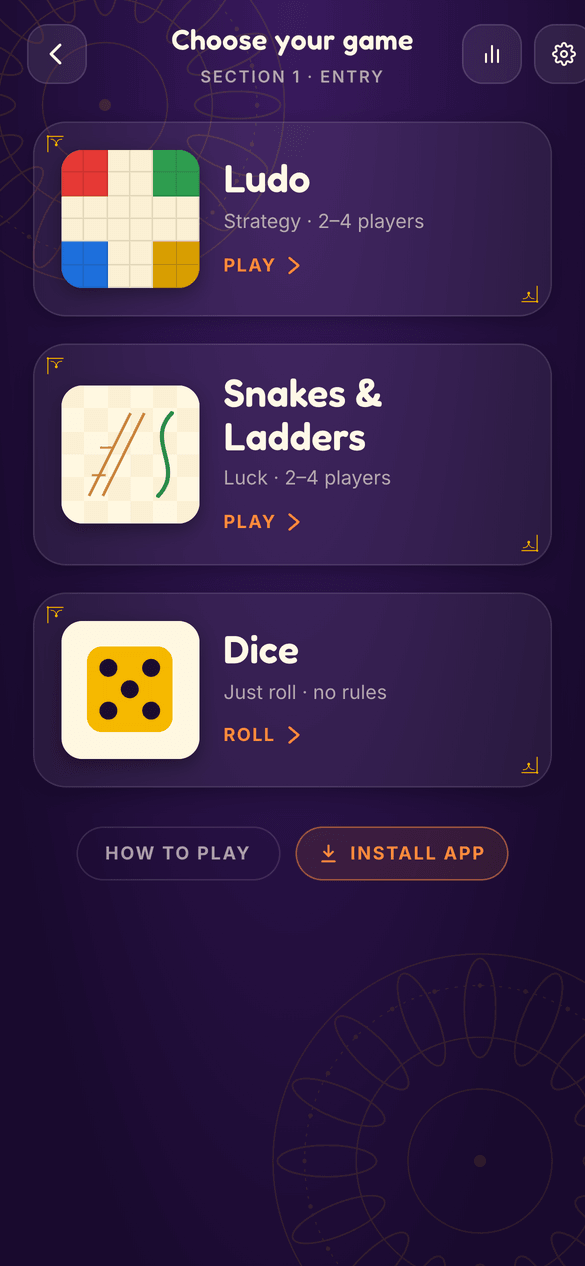
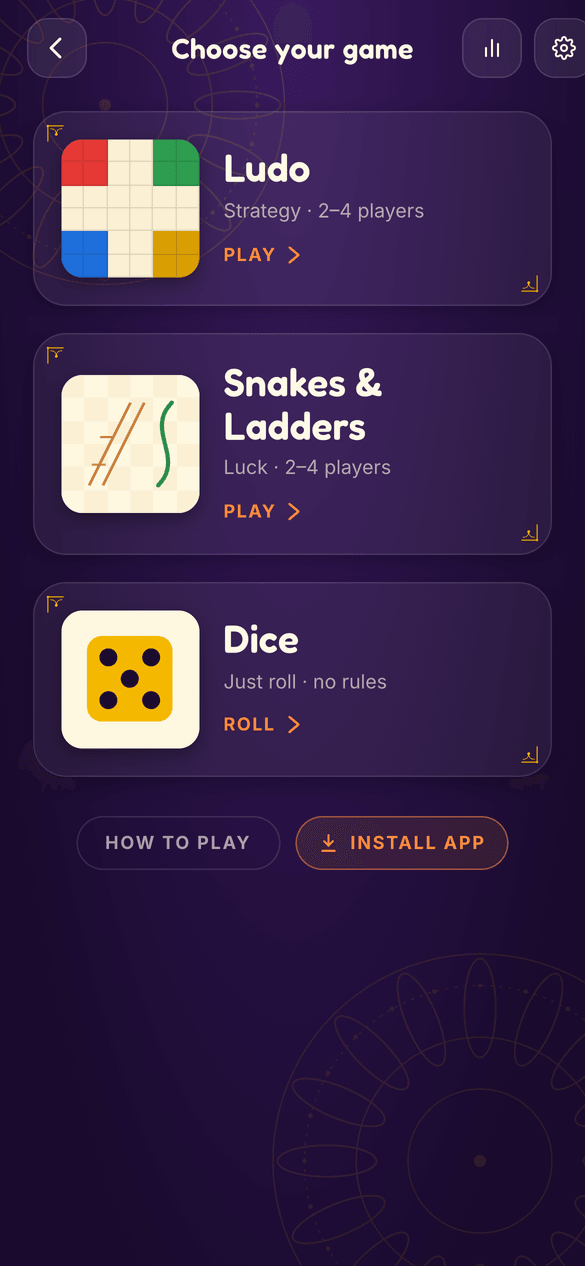
Self-host fonts and drop the leftover 'Section 1 · Entry' label
Fredoka and Inter now ship with the app (@fontsource-variable, Latin +
Latin-ext only, ~167 KB) instead of loading from Google Fonts, so the
app makes no third-party requests and fonts work offline from first
launch. Removes the Google Fonts links and runtime-caching rules.

Also removes the design-mockup subtitle on the game-select header and
refreshes that screenshot.

diff --git a/src/fonts.css b/src/fonts.css
@@ -1,0 +1,41 @@
+/* Self-hosted fonts (no Google Fonts request), so the app makes no
+   third-party calls and fonts work offline from the first launch.
+   Only the Latin + Latin-extended subsets are declared: importing
+   Fontsource's own CSS would ship (and precache) every script subset.
+   Family names match the --font-* tokens in index.css. */
+
+@font-face {
+  font-family: 'Inter';
+  font-style: normal;
+  font-display: swap;
+  font-weight: 100 900;
+  src: url('@fontsource-variable/inter/files/inter-latin-ext-wght-normal.woff2') format('woff2-variations');
+  unicode-range: U+0100-02BA,U+02BD-02C5,U+02C7-02CC,U+02CE-02D7,U+02DD-02FF,U+0304,U+0308,U+0329,U+1D00-1DBF,U+1E00-1E9F,U+1EF2-1EFF,U+2020,U+20A0-20AB,U+20AD-20C0,U+2113,U+2C60-2C7F,U+A720-A7FF;
+}
+
+@font-face {
+  font-family: 'Inter';
+  font-style: normal;
+  font-display: swap;
+  font-weight: 100 900;
+  src: url('@fontsource-variable/inter/files/inter-latin-wght-normal.woff2') format('woff2-variations');
+  unicode-range: U+0000-00FF,U+0131,U+0152-0153,U+02BB-02BC,U+02C6,U+02DA,U+02DC,U+0304,U+0308,U+0329,U+2000-206F,U+20AC,U+2122,U+2191,U+2193,U+2212,U+2215,U+FEFF,U+FFFD;
+}
+
+@font-face {
+  font-family: 'Fredoka';
+  font-style: normal;
+  font-display: swap;
+  font-weight: 300 700;
+  src: url('@fontsource-variable/fredoka/files/fredoka-latin-ext-wght-normal.woff2') format('woff2-variations');
+  unicode-range: U+0100-02BA,U+02BD-02C5,U+02C7-02CC,U+02CE-02D7,U+02DD-02FF,U+0304,U+0308,U+0329,U+1D00-1DBF,U+1E00-1E9F,U+1EF2-1EFF,U+2020,U+20A0-20AB,U+20AD-20C0,U+2113,U+2C60-2C7F,U+A720-A7FF;
+}
+
+@font-face {
+  font-family: 'Fredoka';
+  font-style: normal;
+  font-display: swap;
+  font-weight: 300 700;
+  src: url('@fontsource-variable/fredoka/files/fredoka-latin-wght-normal.woff2') format('woff2-variations');
+  unicode-range: U+0000-00FF,U+0131,U+0152-0153,U+02BB-02BC,U+02C6,U+02DA,U+02DC,U+0304,U+0308,U+0329,U+2000-206F,U+20AC,U+2122,U+2191,U+2193,U+2212,U+2215,U+FEFF,U+FFFD;
+}

diff --git a/vite.config.ts b/vite.config.ts
@@ -54,36 +54,6 @@ export default defineConfig({
         globPatterns: ['**/*.{js,css,html,ico,png,svg,woff2}'],
         // Marketing images aren't needed to play offline.
         globIgnores: ['og-image.png', 'screenshots/**'],
-        runtimeCaching: [
-          {
-            urlPattern: /^https:\/\/fonts\.googleapis\.com\/.*/i,
-            handler: 'CacheFirst',
-            options: {
-              cacheName: 'google-fonts-cache',
-              expiration: {
-                maxEntries: 10,
-                maxAgeSeconds: 60 * 60 * 24 * 365,
-              },
-              cacheableResponse: {
-                statuses: [0, 200],
-              },
-            },
-          },
-          {
-            urlPattern: /^https:\/\/fonts\.gstatic\.com\/.*/i,
-            handler: 'CacheFirst',
-            options: {
-              cacheName: 'gstatic-fonts-cache',
-              expiration: {
-                maxEntries: 10,
-                maxAgeSeconds: 60 * 60 * 24 * 365,
-              },
-              cacheableResponse: {
-                statuses: [0, 200],
-              },
-            },
-          },
-        ],
       },
     }),
   ],

diff --git a/index.html b/index.html
@@ -28,9 +28,6 @@
     <meta name="apple-mobile-web-app-title" content="Ludo Pitara" />
     <link rel="apple-touch-icon" sizes="180x180" href="/ludo-pitara/apple-touch-icon.png" />
     <meta name="mobile-web-app-capable" content="yes" />
-    <link rel="preconnect" href="https://fonts.googleapis.com" />
-    <link rel="preconnect" href="https://fonts.gstatic.com" crossorigin />
-    <link href="https://fonts.googleapis.com/css2?family=Fredoka:wght@400;500;600;700&family=Inter:wght@400;500;600;700;800&display=swap" rel="stylesheet" />
     <title>Ludo Pitara — Play Ludo & Snake and Ladders</title>
   </head>
   <body>

diff --git a/src/pages/GameSelect.tsx b/src/pages/GameSelect.tsx
@@ -57,7 +57,6 @@ const GameSelect: React.FC = () => {
     <PhoneShell contentMaxWidth={520}>
       <Header
         title="Choose your game"
-        subtitle="Section 1 · Entry"
         onBack={() => navigate('/')}
         action={
           <div style={{ display: 'flex', gap: 8 }}>

diff --git a/src/main.tsx b/src/main.tsx
@@ -1,6 +1,7 @@
 import { StrictMode } from 'react'
 import { createRoot } from 'react-dom/client'
 import { HashRouter } from 'react-router-dom'
+import './fonts.css'
 import './index.css'
 import { registerSW } from 'virtual:pwa-register';
 import App from './App';

diff --git a/CLAUDE.md b/CLAUDE.md
@@ -118,6 +118,11 @@ before making non-trivial changes. Highlights worth knowing up front:
 - **Layout sizing**: `useLayoutMode` (`src/lib/useLayout.ts`) drives
   breakpoints; game pages use a height-primary aspect-ratio calc so the
   board fits exactly between the pod rows (no `flex-1` wrappers).
+- Fonts (Fredoka, Inter) are self-hosted from `@fontsource-variable`
+  via `src/fonts.css`, Latin + Latin-ext subsets only. Don't import
+  Fontsource's own CSS (it ships every script subset into the
+  precache), and don't re-add Google Fonts: the app makes no
+  third-party requests, which the install page advertises.
 - Sounds are WebAudio-synthesised in `src/lib/sound.ts`. To add a
   sound, write a `play*` function there and call it from the relevant
   game store at the appropriate moment.
